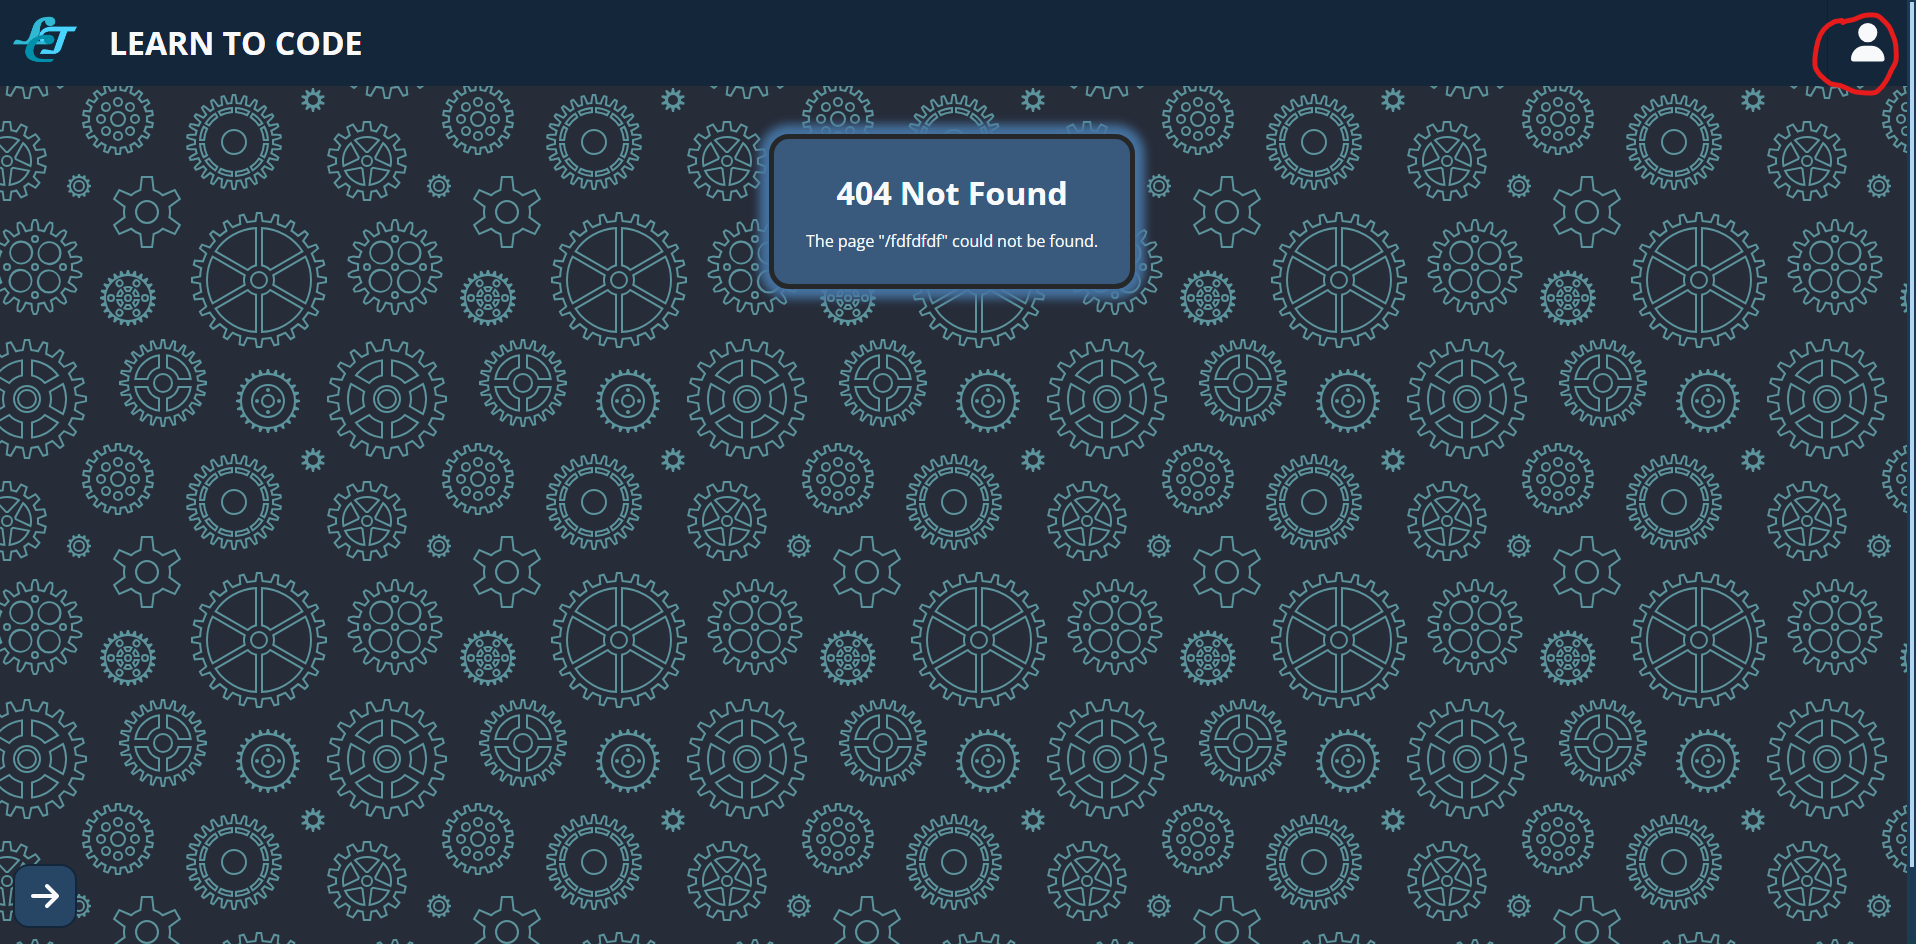
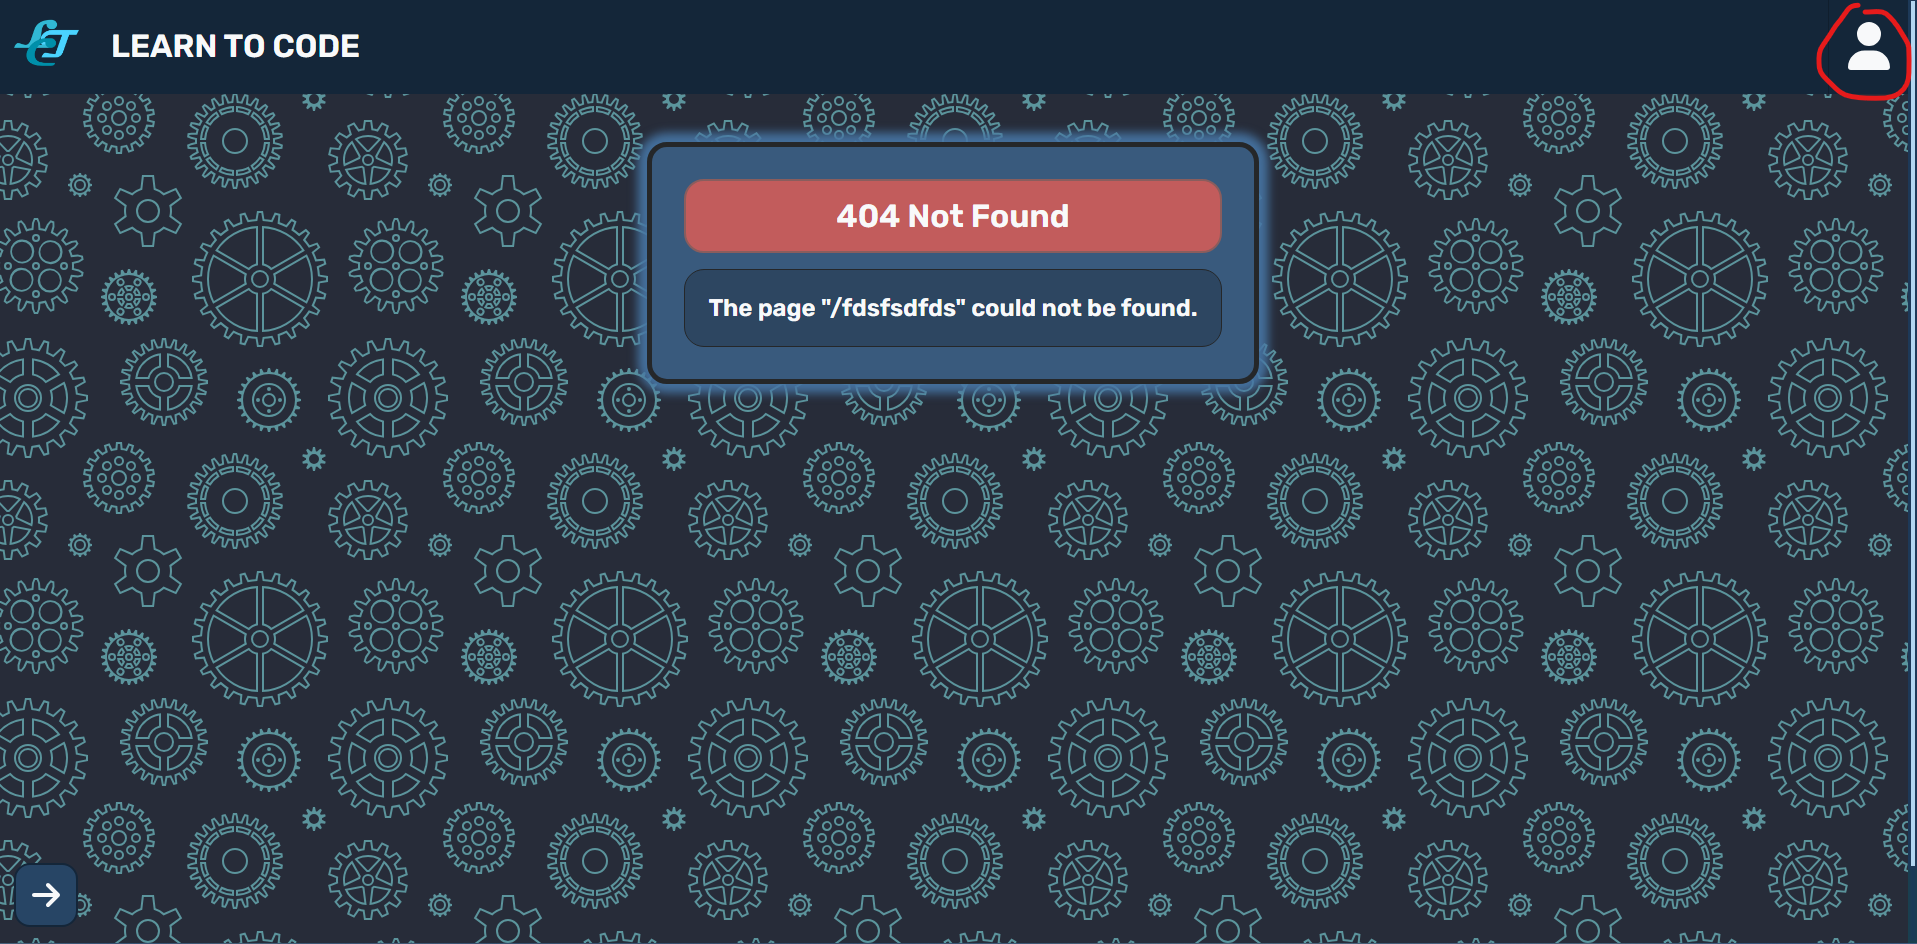
Izlabota header kļūda un pielāgots README fails.

diff --git a/frontend/src/Components/Header/Header.jsx b/frontend/src/Components/Header/Header.jsx
@@ -24,13 +24,16 @@ function Header({ page }) {
             </div>
             <nav className="navbar">
                 <ul>
-                    {token ? (
-                        <li onClick={() => navigate('/profile')}>
-                            <a><FontAwesomeIcon icon={faUser} className='nav-icon'/></a>
-                        </li>) : (
-                        <li onClick={() => navigate('/login')}>
-                            <a><FontAwesomeIcon icon={faRightToBracket} className='nav-icon'/></a>
-                        </li>
+                    {page !== 'LOGGING IN' && page !== 'REGISTRATION' && (
+                        token ? (
+                            <li onClick={() => navigate('/profile')}>
+                                <a><FontAwesomeIcon icon={faUser} className='nav-icon' /></a>
+                            </li>
+                        ) : (
+                            <li onClick={() => navigate('/login')}>
+                                <a><FontAwesomeIcon icon={faRightToBracket} className='nav-icon' /></a>
+                            </li>
+                        )
                     )}
                 </ul>
                 <div className='ham-menu'>

diff --git a/frontend/src/Components/NotFound/NotFound.css b/frontend/src/Components/NotFound/NotFound.css
@@ -13,8 +13,20 @@
 
 .notfound-container h2{
     color: #F8F9FA;
+    background-color: #c25c5c;
     font-size: 2em;
+    padding: 0.5em;
+    border-radius: 20px;
+    border: #8a5d5d 2px solid;
     margin-bottom: 0.5em;
+}
+
+.notfound-container p{
+    padding: 1em;
+    background-color: #2d4661;
+    border-radius: 20px;
+    font-size: 1.5em;
+    border: #252729 1px solid;
 }
 
 .notfound{

diff --git a/README.md b/README.md
@@ -28,6 +28,7 @@ veidošana;
 
 - [x] Lietotnes galvene ar navigāciju uz profilu reģistrētajiem lietotājiem (Header);
 - [x] Lietotnes kājene (Footer);
+![image](/frontend/public/Footer.png)
 - [x] Pielāgota lietotnes ritjosla (web scrollkit)
 - [x] Reģistrēšanas/Ielogošanas/Izlogošanas iespēja gan frontend, gan backend, ierakstu saglabāšana MySQL datubāzē;
 ![image](/frontend/public/Login.png)
@@ -38,14 +39,14 @@ veidošana;
 ![image](/frontend/public/Profile.png)
 - [x] Sānu navigācijas iekļaušana projekta lapās (SideBar);
 ![image](/frontend/public/Sidebar.png)
-- [x] 404 NotFound lapa;
+- [x] 404 NotFound lapa (Tiks uzlabots dizains);
 - [x] Iesākta lomu sadalīšana viesim (1. Bilde) un reģistrētajam lietotājam (2. bilde) pamatojoties uz piešķirto access token;
 ![image](/frontend/public/404-notfound-unlogged.png)
 ![image](/frontend/public/404-logged.png)
 - [x] Dizains tiek pārveidots par responsīvu dažādās ierīcēs;
 ![image](/frontend/public/Phoneview.png)
 - [ ] Galvenā lapa, vienlaikus jaunumu sadaļa (News) !!! IZSTRĀDES PROCESĀ
-- [ ] Pirmā teorija sadaļa par Python pamatiem !!! TIEK PLĀNOTS IZSKATS
+- [ ] Pirmā teorija sadaļa par Python pamatiem !!! TIEK PLĀNOTS IZSKATS UN DATUBĀZES STRUKTŪRA
 - [ ] Teorētisko uzdevumu sadaļa par Python pamatiem;
 - [ ] Praktisko uzdevumu sadaļa par Python pamatiem !!! TIEK DOMĀTS, KĀ VARĒS PALAIST IESNIEGTO KODU
 - [ ] Izveidot skolotāja lomu, kam būs tiesības veidot uzdevumus un teoriju;
